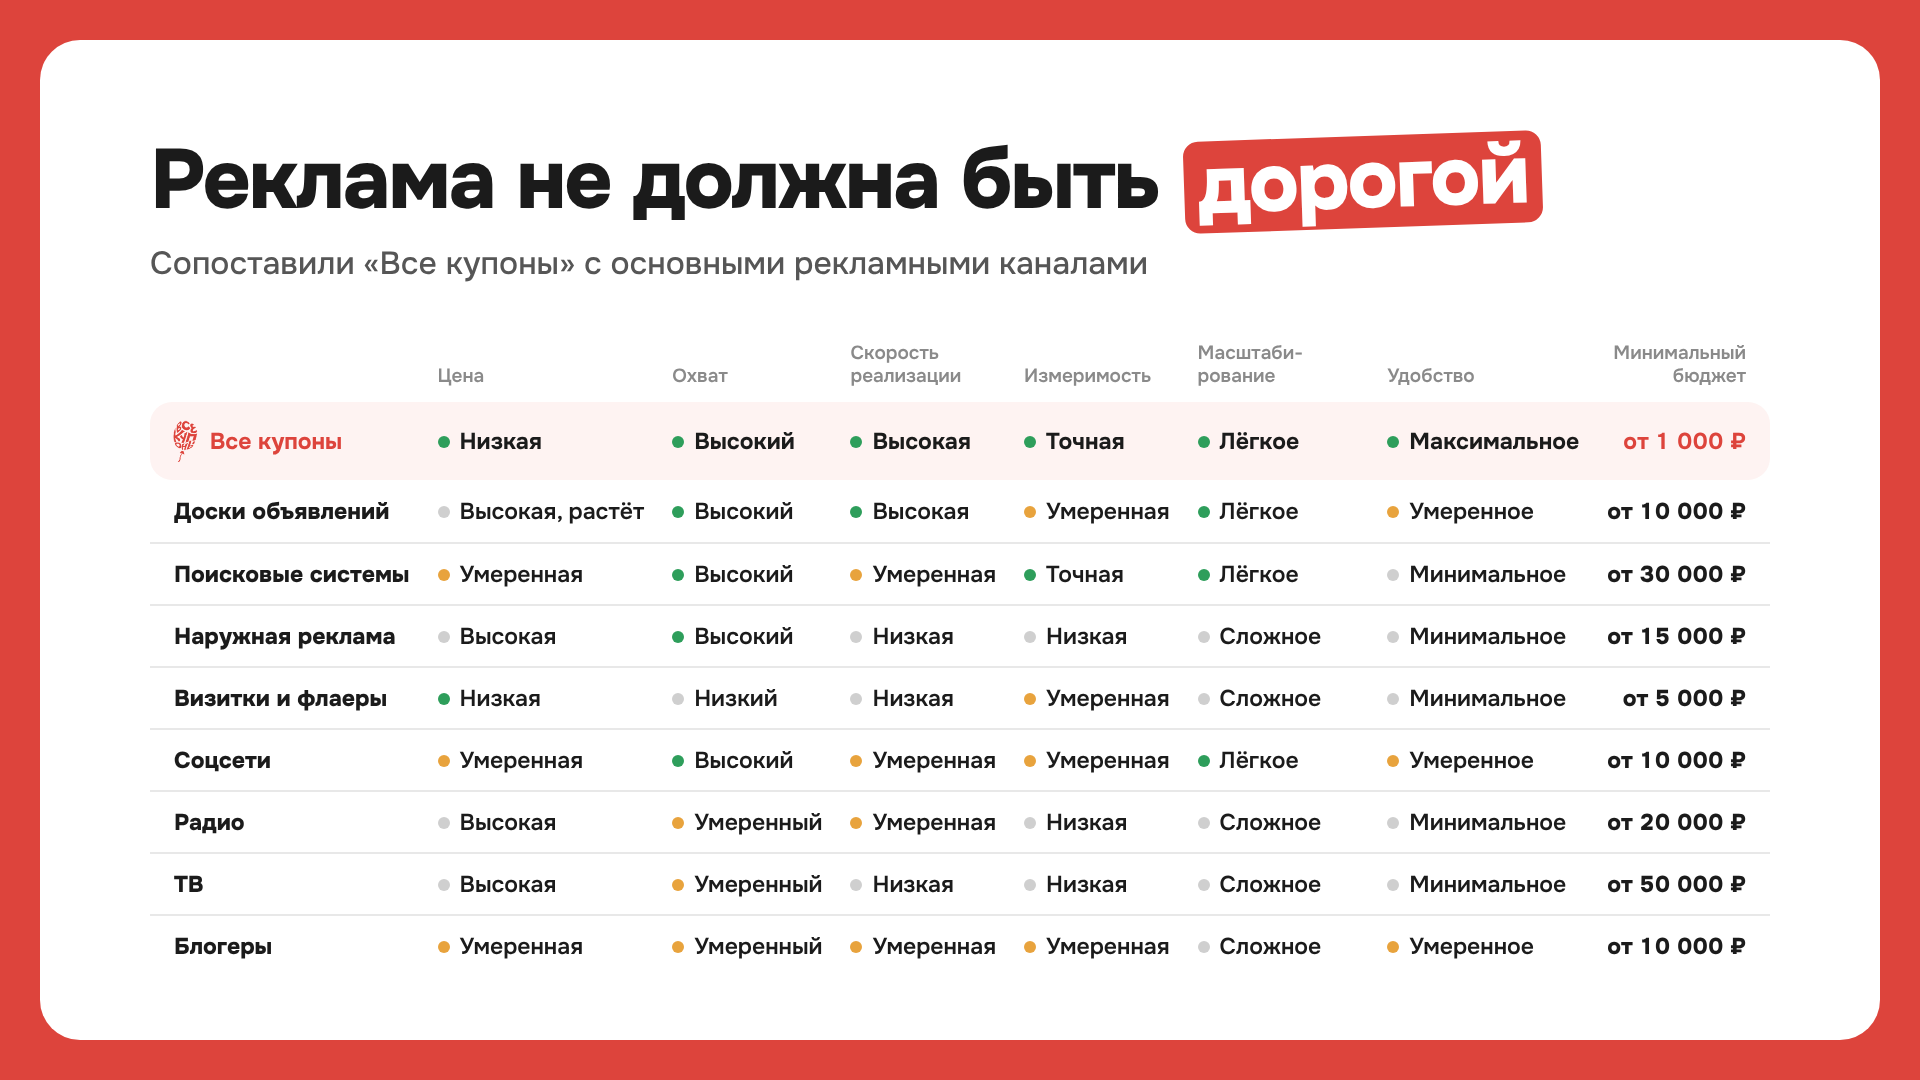
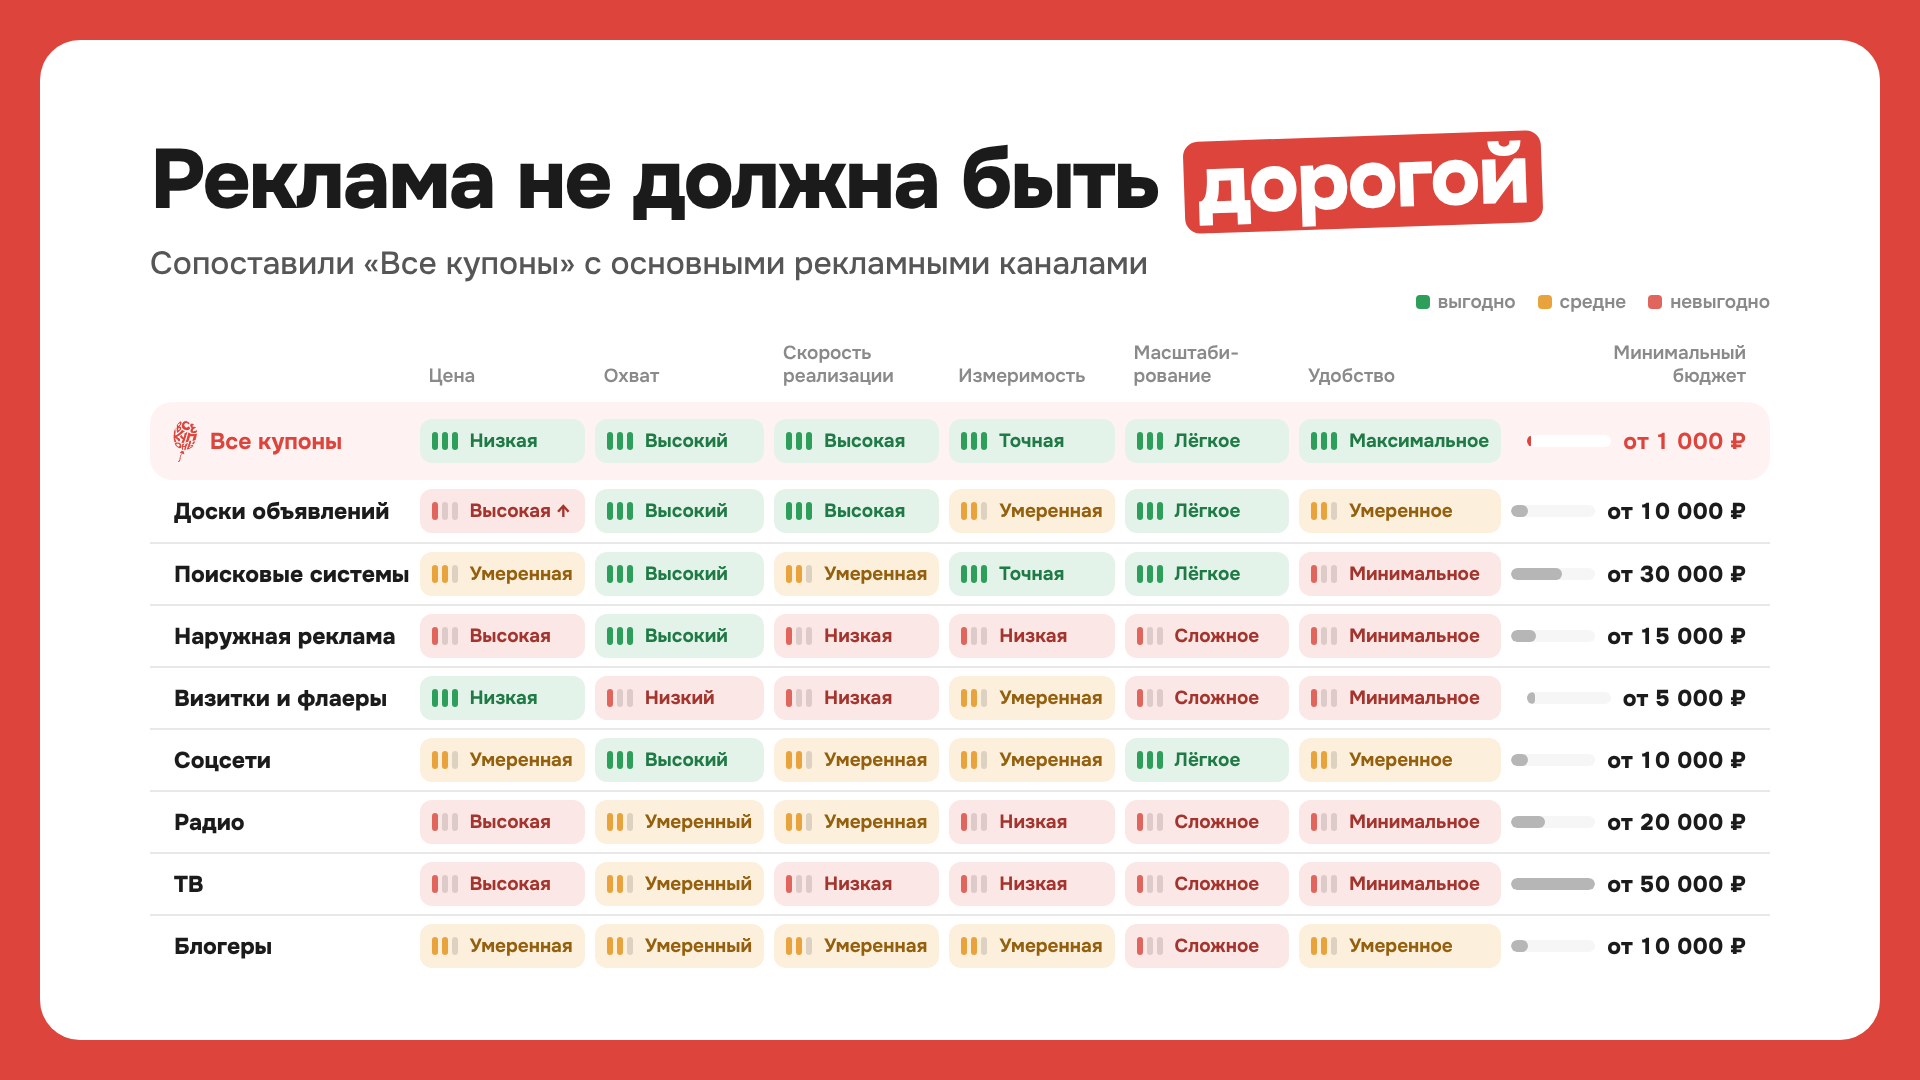
Презентация: таблица сравнения — оценки цветными плашками со шкалой, бюджет полосой, легенда
Claude-Session: https://claude.ai/code/session_01CdubX69oiZDyKnux8qspFS

Changed region(s): [[0.2188, 0.3056, 0.8438, 0.9167], [0.75, 0.275, 0.9375, 0.3056]]

diff --git a/social-kit/deck.html b/social-kit/deck.html
@@ -335,6 +335,20 @@ a{color:inherit;text-decoration:none}
 .cmp tr.me td:first-child{border-radius:22px 0 0 22px;color:var(--brand)}
 .cmp tr.me td:last-child{border-radius:0 22px 22px 0;color:var(--brand)}
 .cmp tr.me + tr td{border-top:0}
+.cmp .rt{display:flex;align-items:center;gap:4px;height:44px;padding:0 12px;border-radius:12px;font-size:19px;font-weight:700}
+.cmp .rt i{width:6px;height:18px;border-radius:3px;background:rgba(0,0,0,.12);margin:0;vertical-align:0}
+.cmp .rt i:nth-of-type(3){margin-right:8px}
+.cmp .rt--g{background:#E3F3EA;color:#1F7A45}.cmp .rt--g i{background:#2E9E5B}
+.cmp .rt--y{background:#FCF0DC;color:#94600E}.cmp .rt--y i:nth-of-type(-n+2){background:#E8A33D}
+.cmp .rt--n{background:#FBE7E5;color:#A3352E}.cmp .rt--n i:nth-of-type(1){background:#E0665D}
+.cmp td{padding:0 5px}
+.cmp .bud{display:flex;align-items:center;justify-content:flex-end;gap:12px}
+.cmp .bud__b{width:84px;height:12px;border-radius:6px;background:var(--surface);overflow:hidden;display:block}
+.cmp .bud__b b{display:block;height:100%;border-radius:6px;background:var(--ink-4)}
+.cmp tr.me .bud__b{background:#fff}.cmp tr.me .bud__b b{background:var(--brand)}
+.cmp__lg{position:absolute;right:150px;top:290px;display:flex;gap:22px;font-size:19px;font-weight:600;color:var(--ink-3)}
+.cmp__lg span{display:flex;align-items:center;gap:8px}
+.cmp__lg i{width:14px;height:14px;border-radius:4px}
 .cmp__brand{display:flex;align-items:center;gap:12px}
 .cmp__brand img{height:40px;transform:rotate(-6deg)}
 /* ==========================================================================
@@ -886,18 +900,19 @@ a{color:inherit;text-decoration:none}
         <p class="sub">Сопоставили «Все купоны» с&nbsp;основными рекламными каналами</p>
       </div>
     </div>
+    <div class="cmp__lg"><span><i style="background:#2E9E5B"></i>выгодно</span><span><i style="background:#E8A33D"></i>средне</span><span><i style="background:#E0665D"></i>невыгодно</span></div>
     <table class="cmp">
       <thead><tr><th></th><th>Цена</th><th>Охват</th><th>Скорость<br>реализации</th><th>Измеримость</th><th>Масштаби&shy;рование</th><th>Удобство</th><th>Минимальный<br>бюджет</th></tr></thead>
       <tbody>
-        <tr class="me"><td><span class="cmp__brand"><img src="../assets/brand/logo-red.png" alt="">Все купоны</span></td><td><i class="g"></i>Низкая</td><td><i class="g"></i>Высокий</td><td><i class="g"></i>Высокая</td><td><i class="g"></i>Точная</td><td><i class="g"></i>Лёгкое</td><td><i class="g"></i>Максимальное</td><td>от 1&nbsp;000&nbsp;₽</td></tr>
-        <tr><td>Доски объявлений</td><td><i class=""></i>Высокая, растёт</td><td><i class="g"></i>Высокий</td><td><i class="g"></i>Высокая</td><td><i class="y"></i>Умеренная</td><td><i class="g"></i>Лёгкое</td><td><i class="y"></i>Умеренное</td><td>от 10&nbsp;000&nbsp;₽</td></tr>
-        <tr><td>Поисковые системы</td><td><i class="y"></i>Умеренная</td><td><i class="g"></i>Высокий</td><td><i class="y"></i>Умеренная</td><td><i class="g"></i>Точная</td><td><i class="g"></i>Лёгкое</td><td><i class=""></i>Минимальное</td><td>от 30&nbsp;000&nbsp;₽</td></tr>
-        <tr><td>Наружная реклама</td><td><i class=""></i>Высокая</td><td><i class="g"></i>Высокий</td><td><i class=""></i>Низкая</td><td><i class=""></i>Низкая</td><td><i class=""></i>Сложное</td><td><i class=""></i>Минимальное</td><td>от 15&nbsp;000&nbsp;₽</td></tr>
-        <tr><td>Визитки и флаеры</td><td><i class="g"></i>Низкая</td><td><i class=""></i>Низкий</td><td><i class=""></i>Низкая</td><td><i class="y"></i>Умеренная</td><td><i class=""></i>Сложное</td><td><i class=""></i>Минимальное</td><td>от 5&nbsp;000&nbsp;₽</td></tr>
-        <tr><td>Соцсети</td><td><i class="y"></i>Умеренная</td><td><i class="g"></i>Высокий</td><td><i class="y"></i>Умеренная</td><td><i class="y"></i>Умеренная</td><td><i class="g"></i>Лёгкое</td><td><i class="y"></i>Умеренное</td><td>от 10&nbsp;000&nbsp;₽</td></tr>
-        <tr><td>Радио</td><td><i class=""></i>Высокая</td><td><i class="y"></i>Умеренный</td><td><i class="y"></i>Умеренная</td><td><i class=""></i>Низкая</td><td><i class=""></i>Сложное</td><td><i class=""></i>Минимальное</td><td>от 20&nbsp;000&nbsp;₽</td></tr>
-        <tr><td>ТВ</td><td><i class=""></i>Высокая</td><td><i class="y"></i>Умеренный</td><td><i class=""></i>Низкая</td><td><i class=""></i>Низкая</td><td><i class=""></i>Сложное</td><td><i class=""></i>Минимальное</td><td>от 50&nbsp;000&nbsp;₽</td></tr>
-        <tr><td>Блогеры</td><td><i class="y"></i>Умеренная</td><td><i class="y"></i>Умеренный</td><td><i class="y"></i>Умеренная</td><td><i class="y"></i>Умеренная</td><td><i class=""></i>Сложное</td><td><i class="y"></i>Умеренное</td><td>от 10&nbsp;000&nbsp;₽</td></tr>
+        <tr class="me"><td><span class="cmp__brand"><img src="../assets/brand/logo-red.png" alt="">Все купоны</span></td><td><span class="rt rt--g"><i></i><i></i><i></i>Низкая</span></td><td><span class="rt rt--g"><i></i><i></i><i></i>Высокий</span></td><td><span class="rt rt--g"><i></i><i></i><i></i>Высокая</span></td><td><span class="rt rt--g"><i></i><i></i><i></i>Точная</span></td><td><span class="rt rt--g"><i></i><i></i><i></i>Лёгкое</span></td><td><span class="rt rt--g"><i></i><i></i><i></i>Максимальное</span></td><td><span class="bud"><span class="bud__b"><b style="width:4%"></b></span>от&nbsp;1&nbsp;000&nbsp;₽</span></td></tr>
+        <tr><td>Доски объявлений</td><td><span class="rt rt--n"><i></i><i></i><i></i>Высокая ↑</span></td><td><span class="rt rt--g"><i></i><i></i><i></i>Высокий</span></td><td><span class="rt rt--g"><i></i><i></i><i></i>Высокая</span></td><td><span class="rt rt--y"><i></i><i></i><i></i>Умеренная</span></td><td><span class="rt rt--g"><i></i><i></i><i></i>Лёгкое</span></td><td><span class="rt rt--y"><i></i><i></i><i></i>Умеренное</span></td><td><span class="bud"><span class="bud__b"><b style="width:20%"></b></span>от&nbsp;10&nbsp;000&nbsp;₽</span></td></tr>
+        <tr><td>Поисковые системы</td><td><span class="rt rt--y"><i></i><i></i><i></i>Умеренная</span></td><td><span class="rt rt--g"><i></i><i></i><i></i>Высокий</span></td><td><span class="rt rt--y"><i></i><i></i><i></i>Умеренная</span></td><td><span class="rt rt--g"><i></i><i></i><i></i>Точная</span></td><td><span class="rt rt--g"><i></i><i></i><i></i>Лёгкое</span></td><td><span class="rt rt--n"><i></i><i></i><i></i>Минимальное</span></td><td><span class="bud"><span class="bud__b"><b style="width:60%"></b></span>от&nbsp;30&nbsp;000&nbsp;₽</span></td></tr>
+        <tr><td>Наружная реклама</td><td><span class="rt rt--n"><i></i><i></i><i></i>Высокая</span></td><td><span class="rt rt--g"><i></i><i></i><i></i>Высокий</span></td><td><span class="rt rt--n"><i></i><i></i><i></i>Низкая</span></td><td><span class="rt rt--n"><i></i><i></i><i></i>Низкая</span></td><td><span class="rt rt--n"><i></i><i></i><i></i>Сложное</span></td><td><span class="rt rt--n"><i></i><i></i><i></i>Минимальное</span></td><td><span class="bud"><span class="bud__b"><b style="width:30%"></b></span>от&nbsp;15&nbsp;000&nbsp;₽</span></td></tr>
+        <tr><td>Визитки и флаеры</td><td><span class="rt rt--g"><i></i><i></i><i></i>Низкая</span></td><td><span class="rt rt--n"><i></i><i></i><i></i>Низкий</span></td><td><span class="rt rt--n"><i></i><i></i><i></i>Низкая</span></td><td><span class="rt rt--y"><i></i><i></i><i></i>Умеренная</span></td><td><span class="rt rt--n"><i></i><i></i><i></i>Сложное</span></td><td><span class="rt rt--n"><i></i><i></i><i></i>Минимальное</span></td><td><span class="bud"><span class="bud__b"><b style="width:10%"></b></span>от&nbsp;5&nbsp;000&nbsp;₽</span></td></tr>
+        <tr><td>Соцсети</td><td><span class="rt rt--y"><i></i><i></i><i></i>Умеренная</span></td><td><span class="rt rt--g"><i></i><i></i><i></i>Высокий</span></td><td><span class="rt rt--y"><i></i><i></i><i></i>Умеренная</span></td><td><span class="rt rt--y"><i></i><i></i><i></i>Умеренная</span></td><td><span class="rt rt--g"><i></i><i></i><i></i>Лёгкое</span></td><td><span class="rt rt--y"><i></i><i></i><i></i>Умеренное</span></td><td><span class="bud"><span class="bud__b"><b style="width:20%"></b></span>от&nbsp;10&nbsp;000&nbsp;₽</span></td></tr>
+        <tr><td>Радио</td><td><span class="rt rt--n"><i></i><i></i><i></i>Высокая</span></td><td><span class="rt rt--y"><i></i><i></i><i></i>Умеренный</span></td><td><span class="rt rt--y"><i></i><i></i><i></i>Умеренная</span></td><td><span class="rt rt--n"><i></i><i></i><i></i>Низкая</span></td><td><span class="rt rt--n"><i></i><i></i><i></i>Сложное</span></td><td><span class="rt rt--n"><i></i><i></i><i></i>Минимальное</span></td><td><span class="bud"><span class="bud__b"><b style="width:40%"></b></span>от&nbsp;20&nbsp;000&nbsp;₽</span></td></tr>
+        <tr><td>ТВ</td><td><span class="rt rt--n"><i></i><i></i><i></i>Высокая</span></td><td><span class="rt rt--y"><i></i><i></i><i></i>Умеренный</span></td><td><span class="rt rt--n"><i></i><i></i><i></i>Низкая</span></td><td><span class="rt rt--n"><i></i><i></i><i></i>Низкая</span></td><td><span class="rt rt--n"><i></i><i></i><i></i>Сложное</span></td><td><span class="rt rt--n"><i></i><i></i><i></i>Минимальное</span></td><td><span class="bud"><span class="bud__b"><b style="width:100%"></b></span>от&nbsp;50&nbsp;000&nbsp;₽</span></td></tr>
+        <tr><td>Блогеры</td><td><span class="rt rt--y"><i></i><i></i><i></i>Умеренная</span></td><td><span class="rt rt--y"><i></i><i></i><i></i>Умеренный</span></td><td><span class="rt rt--y"><i></i><i></i><i></i>Умеренная</span></td><td><span class="rt rt--y"><i></i><i></i><i></i>Умеренная</span></td><td><span class="rt rt--n"><i></i><i></i><i></i>Сложное</span></td><td><span class="rt rt--y"><i></i><i></i><i></i>Умеренное</span></td><td><span class="bud"><span class="bud__b"><b style="width:20%"></b></span>от&nbsp;10&nbsp;000&nbsp;₽</span></td></tr>
       </tbody>
     </table>
   </section>
